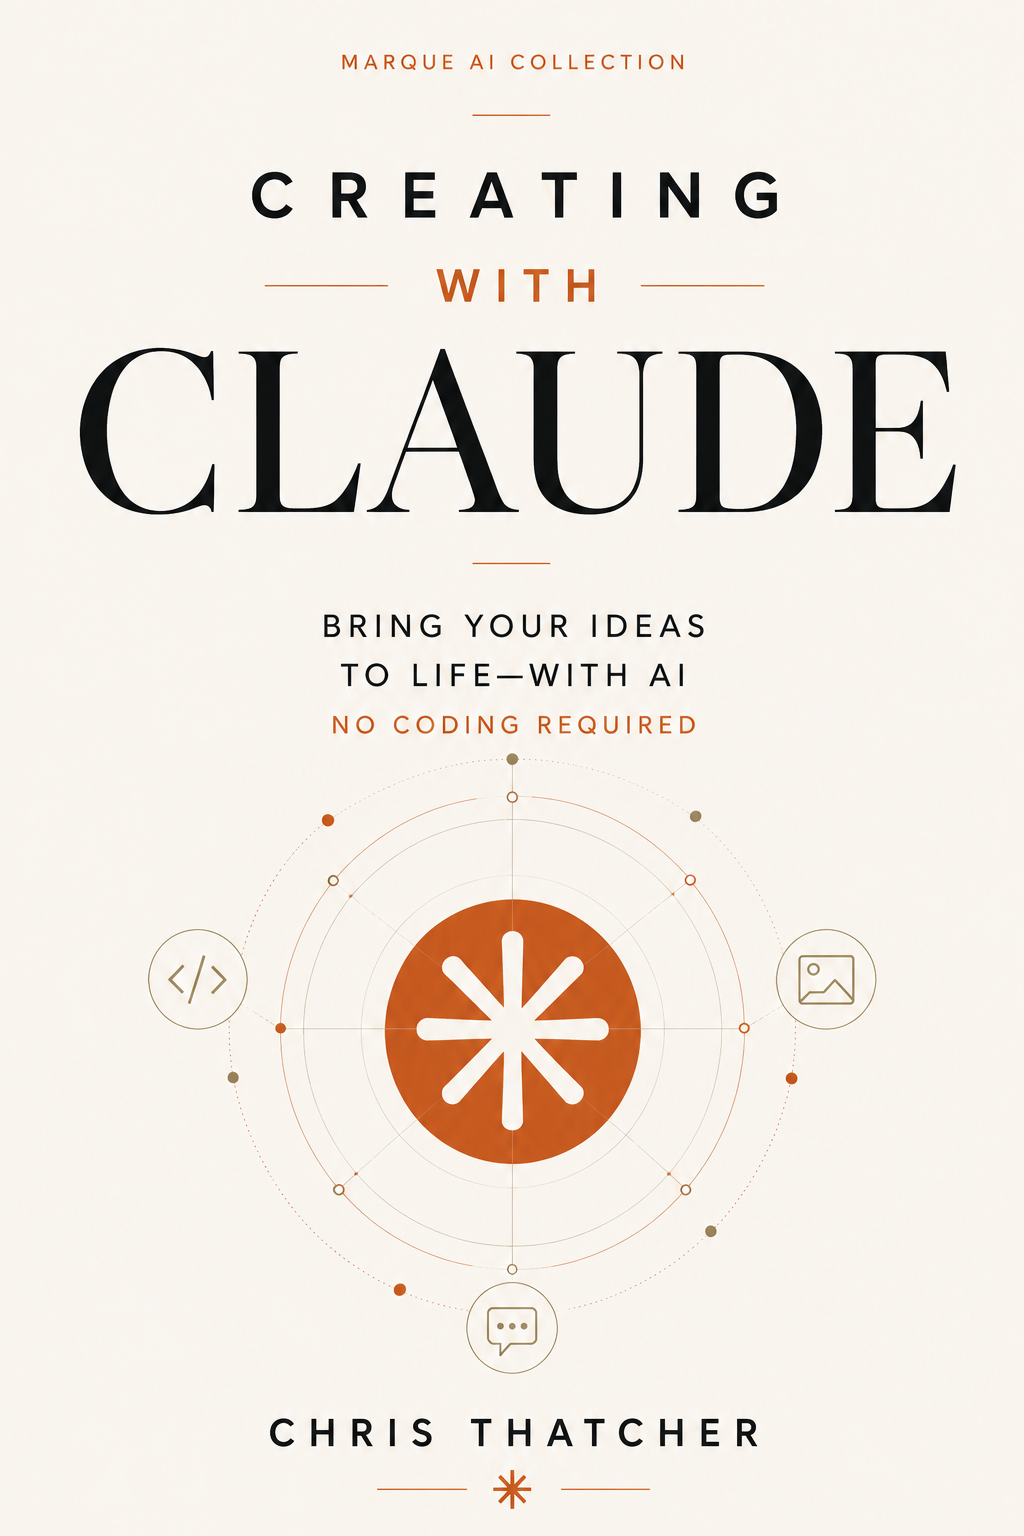
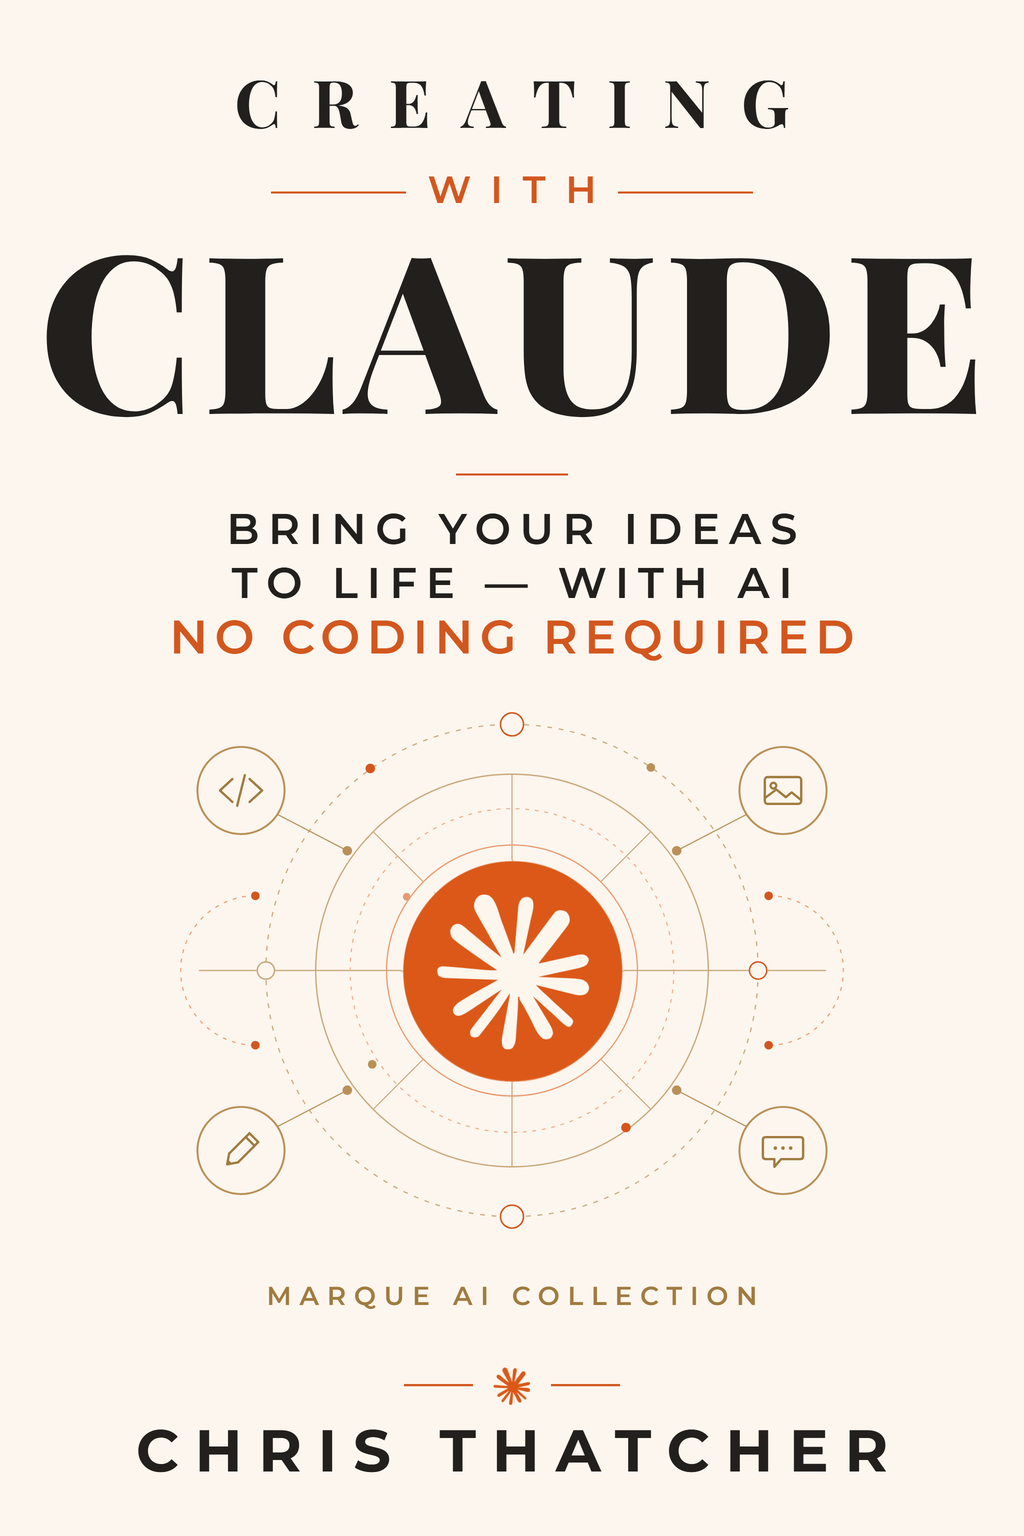
Covers: v8 CwC + WwC front covers installed; all cover frames 2:3 with object-fit cover (kills the side bands)

diff --git a/site/cyber-risk/index.html b/site/cyber-risk/index.html
@@ -48,8 +48,8 @@ ml('account', '2453958');
 .cr-hero { position: relative; padding: clamp(4rem, 10vw, 7rem) 0; background: var(--ink); color: #E8E4DC; overflow: hidden; }
 .cr-hero::before { content: ''; position: absolute; inset: 0; background: radial-gradient(ellipse at 30% 50%, rgba(124, 42, 51, 0.18), transparent 60%), radial-gradient(ellipse at 80% 70%, rgba(182, 138, 78, 0.1), transparent 50%); pointer-events: none; }
 .cr-hero-inner { position: relative; z-index: 1; display: grid; grid-template-columns: 220px 1fr; gap: clamp(2rem, 5vw, 4rem); align-items: center; max-width: 60rem; margin-inline: auto; }
-.cr-hero-cover { width: 220px; aspect-ratio: 3 / 4; border-radius: 8px; overflow: hidden; box-shadow: 0 8px 32px rgba(0, 0, 0, 0.4); }
-.cr-hero-cover img { width: 100%; height: 100%; object-fit: scale-down; }
+.cr-hero-cover { width: 220px; aspect-ratio: 2 / 3; border-radius: 8px; overflow: hidden; box-shadow: 0 8px 32px rgba(0, 0, 0, 0.4); }
+.cr-hero-cover img { width: 100%; height: 100%; object-fit: cover; display: block; }
 .cr-hero-text .hero-kicker { font-family: var(--sans); font-size: 0.8rem; font-weight: 600; letter-spacing: 0.12em; text-transform: uppercase; color: var(--brass); margin-bottom: 1rem; }
 .cr-hero-text h1 { font-family: var(--serif); font-size: clamp(2.2rem, 5vw, 3.5rem); font-weight: 600; line-height: 1.1; color: #FBFAF7; margin-bottom: 0.5rem; }
 .cr-hero-text .hero-subtitle { font-family: var(--serif); font-style: italic; font-size: 1.15rem; color: #9AA4AE; margin-bottom: 1.5rem; }

diff --git a/src/pages/cyber-risk/index.html b/src/pages/cyber-risk/index.html
@@ -40,8 +40,8 @@
 .cr-hero { position: relative; padding: clamp(4rem, 10vw, 7rem) 0; background: var(--ink); color: #E8E4DC; overflow: hidden; }
 .cr-hero::before { content: ''; position: absolute; inset: 0; background: radial-gradient(ellipse at 30% 50%, rgba(124, 42, 51, 0.18), transparent 60%), radial-gradient(ellipse at 80% 70%, rgba(182, 138, 78, 0.1), transparent 50%); pointer-events: none; }
 .cr-hero-inner { position: relative; z-index: 1; display: grid; grid-template-columns: 220px 1fr; gap: clamp(2rem, 5vw, 4rem); align-items: center; max-width: 60rem; margin-inline: auto; }
-.cr-hero-cover { width: 220px; aspect-ratio: 3 / 4; border-radius: 8px; overflow: hidden; box-shadow: 0 8px 32px rgba(0, 0, 0, 0.4); }
-.cr-hero-cover img { width: 100%; height: 100%; object-fit: scale-down; }
+.cr-hero-cover { width: 220px; aspect-ratio: 2 / 3; border-radius: 8px; overflow: hidden; box-shadow: 0 8px 32px rgba(0, 0, 0, 0.4); }
+.cr-hero-cover img { width: 100%; height: 100%; object-fit: cover; display: block; }
 .cr-hero-text .hero-kicker { font-family: var(--sans); font-size: 0.8rem; font-weight: 600; letter-spacing: 0.12em; text-transform: uppercase; color: var(--brass); margin-bottom: 1rem; }
 .cr-hero-text h1 { font-family: var(--serif); font-size: clamp(2.2rem, 5vw, 3.5rem); font-weight: 600; line-height: 1.1; color: #FBFAF7; margin-bottom: 0.5rem; }
 .cr-hero-text .hero-subtitle { font-family: var(--serif); font-style: italic; font-size: 1.15rem; color: #9AA4AE; margin-bottom: 1.5rem; }

diff --git a/site/treasure-hunter/index.html b/site/treasure-hunter/index.html
@@ -50,7 +50,7 @@ ml('account', '2453958');
 .th-hero::before { content: ''; position: absolute; inset: 0; background: radial-gradient(ellipse at 30% 50%, rgba(24, 68, 88, 0.28), transparent 60%), radial-gradient(ellipse at 80% 70%, rgba(182, 138, 78, 0.12), transparent 50%); pointer-events: none; }
 .th-hero-inner { position: relative; z-index: 1; display: grid; grid-template-columns: 220px 1fr; gap: clamp(2rem, 5vw, 4rem); align-items: center; max-width: 60rem; margin-inline: auto; }
 .th-hero-cover { width: 220px; aspect-ratio: 2 / 3; border-radius: 8px; overflow: hidden; box-shadow: 0 8px 32px rgba(0, 0, 0, 0.4); }
-.th-hero-cover img { width: 100%; height: 100%; object-fit: scale-down; }
+.th-hero-cover img { width: 100%; height: 100%; object-fit: cover; display: block; }
 .th-hero-text .hero-kicker { font-family: var(--sans); font-size: 0.8rem; font-weight: 600; letter-spacing: 0.12em; text-transform: uppercase; color: var(--brass); margin-bottom: 1rem; }
 .th-hero-text h1 { font-family: var(--serif); font-size: clamp(2.2rem, 5vw, 3.5rem); font-weight: 600; line-height: 1.1; color: #FBFAF7; margin-bottom: 0.5rem; }
 .th-hero-text .hero-subtitle { font-family: var(--serif); font-style: italic; font-size: 1.15rem; color: #9AA4AE; margin-bottom: 1.5rem; }

diff --git a/src/pages/treasure-hunter/index.html b/src/pages/treasure-hunter/index.html
@@ -42,7 +42,7 @@
 .th-hero::before { content: ''; position: absolute; inset: 0; background: radial-gradient(ellipse at 30% 50%, rgba(24, 68, 88, 0.28), transparent 60%), radial-gradient(ellipse at 80% 70%, rgba(182, 138, 78, 0.12), transparent 50%); pointer-events: none; }
 .th-hero-inner { position: relative; z-index: 1; display: grid; grid-template-columns: 220px 1fr; gap: clamp(2rem, 5vw, 4rem); align-items: center; max-width: 60rem; margin-inline: auto; }
 .th-hero-cover { width: 220px; aspect-ratio: 2 / 3; border-radius: 8px; overflow: hidden; box-shadow: 0 8px 32px rgba(0, 0, 0, 0.4); }
-.th-hero-cover img { width: 100%; height: 100%; object-fit: scale-down; }
+.th-hero-cover img { width: 100%; height: 100%; object-fit: cover; display: block; }
 .th-hero-text .hero-kicker { font-family: var(--sans); font-size: 0.8rem; font-weight: 600; letter-spacing: 0.12em; text-transform: uppercase; color: var(--brass); margin-bottom: 1rem; }
 .th-hero-text h1 { font-family: var(--serif); font-size: clamp(2.2rem, 5vw, 3.5rem); font-weight: 600; line-height: 1.1; color: #FBFAF7; margin-bottom: 0.5rem; }
 .th-hero-text .hero-subtitle { font-family: var(--serif); font-style: italic; font-size: 1.15rem; color: #9AA4AE; margin-bottom: 1.5rem; }

diff --git a/site/writing-with-claude/index.html b/site/writing-with-claude/index.html
@@ -49,7 +49,7 @@ ml('account', '2453958');
 .wc-hero::before { content: ''; position: absolute; inset: 0; background: radial-gradient(ellipse at 30% 50%, rgba(182, 138, 78, 0.16), transparent 60%); pointer-events: none; }
 .wc-hero-inner { position: relative; z-index: 1; display: grid; grid-template-columns: 220px 1fr; gap: clamp(2rem, 5vw, 4rem); align-items: center; max-width: 64rem; margin-inline: auto; }
 .wc-hero-cover { width: 220px; aspect-ratio: 2 / 3; border-radius: 8px; overflow: hidden; box-shadow: 0 8px 32px rgba(0, 0, 0, 0.4); }
-.wc-hero-cover img { width: 100%; height: 100%; object-fit: scale-down; }
+.wc-hero-cover img { width: 100%; height: 100%; object-fit: cover; display: block; }
 .wc-hero-text .hero-kicker { font-family: var(--sans); font-size: 0.8rem; font-weight: 600; letter-spacing: 0.12em; text-transform: uppercase; color: var(--brass); margin-bottom: 0.75rem; }
 .wc-hero-text h1 { font-family: var(--serif); font-size: clamp(2.2rem, 5vw, 3.5rem); font-weight: 600; line-height: 1.1; color: #FBFAF7; margin-bottom: 0.5rem; }
 .wc-hero-text .hero-subtitle { font-family: var(--serif); font-style: italic; font-size: 1.15rem; color: #9AA4AE; margin-bottom: 1.5rem; }

diff --git a/src/pages/writing-with-claude/index.html b/src/pages/writing-with-claude/index.html
@@ -41,7 +41,7 @@
 .wc-hero::before { content: ''; position: absolute; inset: 0; background: radial-gradient(ellipse at 30% 50%, rgba(182, 138, 78, 0.16), transparent 60%); pointer-events: none; }
 .wc-hero-inner { position: relative; z-index: 1; display: grid; grid-template-columns: 220px 1fr; gap: clamp(2rem, 5vw, 4rem); align-items: center; max-width: 64rem; margin-inline: auto; }
 .wc-hero-cover { width: 220px; aspect-ratio: 2 / 3; border-radius: 8px; overflow: hidden; box-shadow: 0 8px 32px rgba(0, 0, 0, 0.4); }
-.wc-hero-cover img { width: 100%; height: 100%; object-fit: scale-down; }
+.wc-hero-cover img { width: 100%; height: 100%; object-fit: cover; display: block; }
 .wc-hero-text .hero-kicker { font-family: var(--sans); font-size: 0.8rem; font-weight: 600; letter-spacing: 0.12em; text-transform: uppercase; color: var(--brass); margin-bottom: 0.75rem; }
 .wc-hero-text h1 { font-family: var(--serif); font-size: clamp(2.2rem, 5vw, 3.5rem); font-weight: 600; line-height: 1.1; color: #FBFAF7; margin-bottom: 0.5rem; }
 .wc-hero-text .hero-subtitle { font-family: var(--serif); font-style: italic; font-size: 1.15rem; color: #9AA4AE; margin-bottom: 1.5rem; }

diff --git a/site/creating-with-claude/index.html b/site/creating-with-claude/index.html
@@ -84,7 +84,7 @@ ml('account', '2453958');
 
 .cwc-hero-cover {
   width: 220px;
-  aspect-ratio: 3 / 4;
+  aspect-ratio: 2 / 3;
   border-radius: 8px;
   overflow: hidden;
   box-shadow: 0 8px 32px rgba(0, 0, 0, 0.4);
@@ -93,7 +93,7 @@ ml('account', '2453958');
 .cwc-hero-cover img {
   width: 100%;
   height: 100%;
-  object-fit: scale-down;
+  object-fit: cover; display: block;
 }
 
 .cwc-hero-text .hero-kicker {

diff --git a/site/index.html b/site/index.html
@@ -239,7 +239,7 @@ ml('account', '2453958');
 
 .featured-book-cover {
   width: 160px;
-  aspect-ratio: 3 / 4;
+  aspect-ratio: 2 / 3;
   background: var(--placeholder-bg);
   border-radius: 6px;
   overflow: hidden;
@@ -256,7 +256,7 @@ ml('account', '2453958');
 .featured-book-cover img {
   width: 100%;
   height: 100%;
-  object-fit: scale-down;
+  object-fit: cover; display: block;
 }
 
 .featured-book h3 {

diff --git a/site/books.html b/site/books.html
@@ -100,7 +100,7 @@ ml('account', '2453958');
 
 .book-detail-cover {
   width: 200px;
-  aspect-ratio: 3 / 4;
+  aspect-ratio: 2 / 3;
   background: var(--placeholder-bg);
   border-radius: 8px;
   overflow: hidden;
@@ -110,7 +110,7 @@ ml('account', '2453958');
 .book-detail-cover img {
   width: 100%;
   height: 100%;
-  object-fit: scale-down;
+  object-fit: cover; display: block;
 }
 
 .book-detail-body h3 {

diff --git a/src/pages/index.html b/src/pages/index.html
@@ -231,7 +231,7 @@
 
 .featured-book-cover {
   width: 160px;
-  aspect-ratio: 3 / 4;
+  aspect-ratio: 2 / 3;
   background: var(--placeholder-bg);
   border-radius: 6px;
   overflow: hidden;
@@ -248,7 +248,7 @@
 .featured-book-cover img {
   width: 100%;
   height: 100%;
-  object-fit: scale-down;
+  object-fit: cover; display: block;
 }
 
 .featured-book h3 {

diff --git a/src/pages/books.html b/src/pages/books.html
@@ -92,7 +92,7 @@
 
 .book-detail-cover {
   width: 200px;
-  aspect-ratio: 3 / 4;
+  aspect-ratio: 2 / 3;
   background: var(--placeholder-bg);
   border-radius: 8px;
   overflow: hidden;
@@ -102,7 +102,7 @@
 .book-detail-cover img {
   width: 100%;
   height: 100%;
-  object-fit: scale-down;
+  object-fit: cover; display: block;
 }
 
 .book-detail-body h3 {

diff --git a/scripts/install_covers_20260906.py b/scripts/install_covers_20260906.py
@@ -1,0 +1,20 @@
+"""One-off: install the v8 CwC + WwC front-cover mockups as the site cover images (1024x1536), archiving the old ones."""
+from PIL import Image
+import shutil, os
+ROOT = os.path.dirname(os.path.dirname(os.path.abspath(__file__)))
+os.chdir(ROOT)
+pairs = [
+    (r'C:\Users\rctha\Documents\cowork_projects\05_Book_Creating_with_Claude\production\front_cover_source\Creating_with_Claude_Front_Cover_Mockup_v8.png', 'creating-with-claude-cover.png'),
+    (r'C:\Users\rctha\Documents\cowork_projects\16_With_Claude_Series\1-Writing-with-Claude\cover\Writing_with_Claude_Front_Cover_Mockup_v8.png', 'writing-with-claude-cover.png'),
+]
+arch = os.path.join('_archive', 'covers-2026-09-06')
+os.makedirs(arch, exist_ok=True)
+for src, name in pairs:
+    for d in ('site', '.'):
+        p = os.path.join(d, name)
+        if os.path.exists(p):
+            shutil.copy2(p, os.path.join(arch, ('root' if d == '.' else d) + '-' + name))
+    im = Image.open(src).convert('RGB').resize((1024, 1536), Image.LANCZOS)
+    im.save(os.path.join('site', name), optimize=True)
+    im.save(name, optimize=True)
+    print(name, os.path.getsize(os.path.join('site', name)) // 1024, 'KB')
